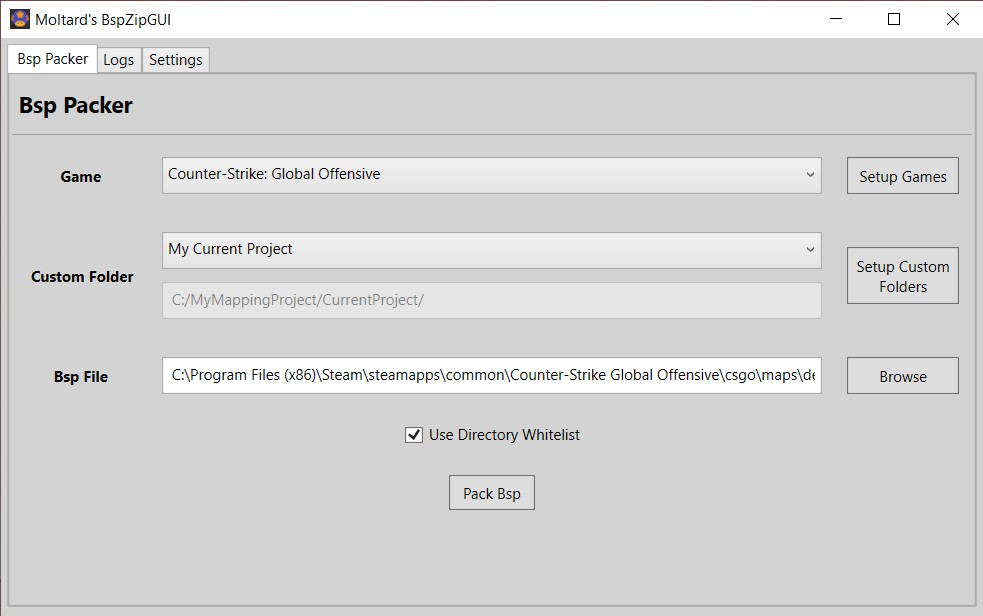
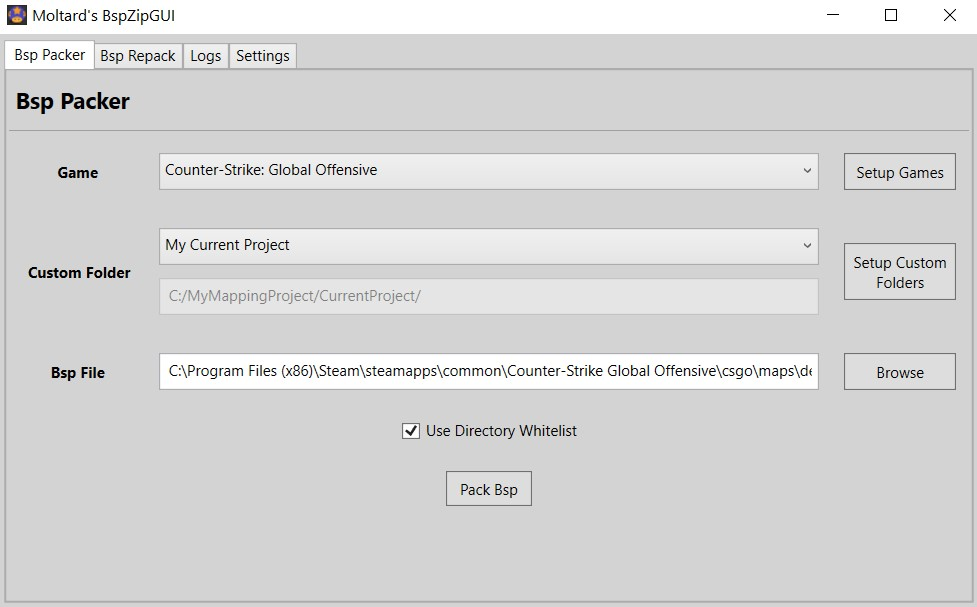
v1.2 Documentation

diff --git a/README.md b/README.md
@@ -3,6 +3,8 @@ A clean GUI tool that use Valve's BSPZIP command line utility. It is used to emb
 
 <img src="Images/ExampleCustomFolder.jpg" width="60%" />
 
+You can also repack a map to compress (or decompress it).
+
 It can be used for any Source Engine game that provide a bspzip.exe.
 
 This tool idea is based on [Geotavros's BspZipGui](https://github.com/geotavros/BspZipGui) .
@@ -11,7 +13,7 @@ This tool idea is based on [Geotavros's BspZipGui](https://github.com/geotavros/
 
 [BspZipGUI v1.0](https://github.com/Moltard/BspZipGUI/releases/latest)
 
-## How to use
+## How to use - Bsp Packer
 
 Select a game you defined (3 are setup per default), a custom folder you defined and load a BSP.
 
@@ -22,6 +24,16 @@ Check 'Use Directory Whitelist' (recommended) to only pack files from whiteliste
 Press Pack Bsp.
 
 <img src="Images/LogsEnd.jpg" width="60%" />
+
+## How to use - Bsp Repack
+
+Select a game you defined (3 are setup per default) and load a BSP.
+
+<img src="Images/RepackMenu.jpg" width="60%" />
+
+Press Compress Bsp or Decompress Bsp.
+
+<img src="Images/RepackLogs.jpg" width="60%" />
 
 ## How to setup
 
